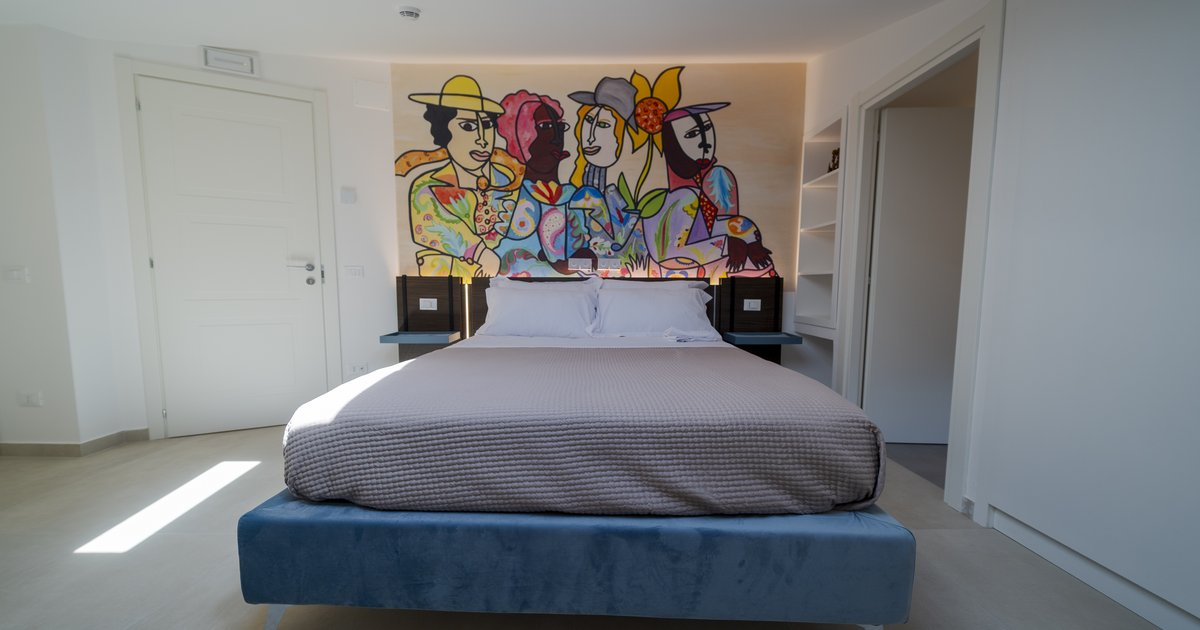
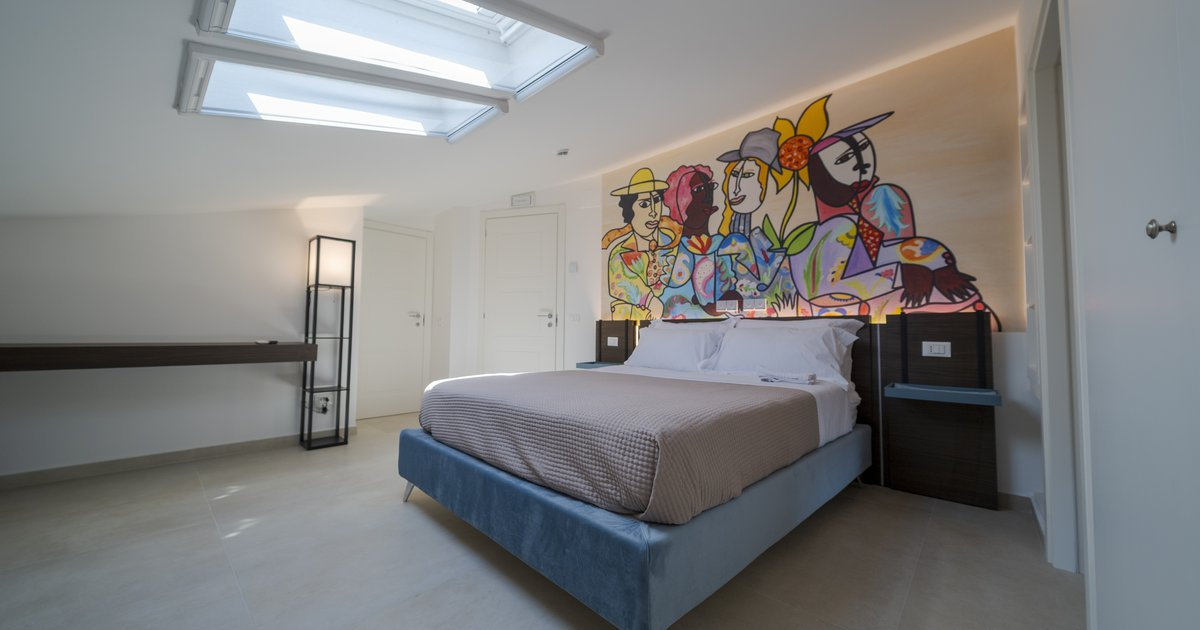
Camera Africa: foto principale con il letto d'angolo (anche nell'anteprima WhatsApp/Facebook)
Claude-Session: https://claude.ai/code/session_01Bs6QKV8WroGvAZNvTkkuR3

diff --git a/lib/data/rooms.ts b/lib/data/rooms.ts
@@ -105,12 +105,12 @@ export const rooms: Room[] = [
   },
   {
     slug: { it: "africa", en: "africa", de: "afrika", fr: "afrique" },
-    photo: "/foto/camera-africa.webp",
+    photo: "/foto/camera-africa-letto.webp",
     ogImage: "/og/camera-africa.jpg",
     guests: "2",
     heroPhoto: "/foto/camera-africa-porta.webp",
     gallery: [
-      "/foto/camera-africa-letto.webp",
+      "/foto/camera-africa.webp",
       "/foto/camera-africa-laterale.webp",
       "/foto/camera-africa-murale.webp",
       "/foto/camera-africa-salotto.webp",
